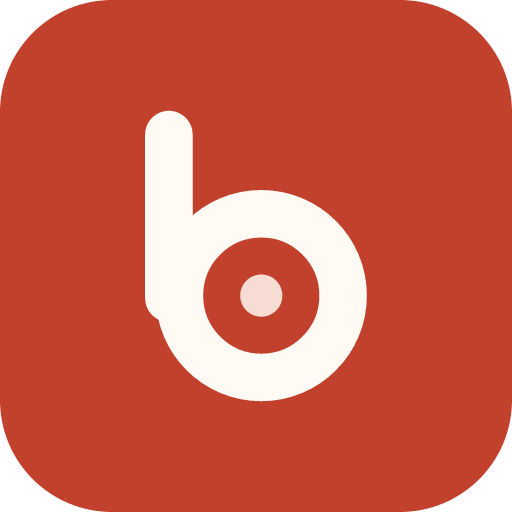
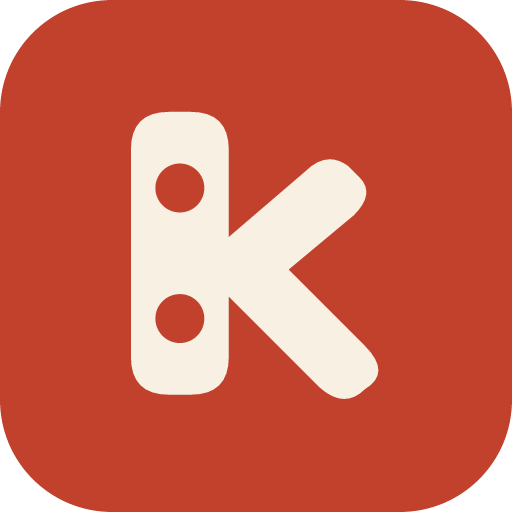
feat(brand): Punchline mark and punched-dot wordmark
Replace ring-spoon mark (read as Beats) with Punchline k: binder page
spine, two punched holes. Wordmark single weight ink, tomato punch-ring
i dots. Regen favicons, app/maskable icons, share images, PDF logo.

Changed region(s): [[0.25, 0.2188, 0.75, 0.7812]]

diff --git a/apps/web/src/components/pantry/brand-mark.tsx b/apps/web/src/components/pantry/brand-mark.tsx
@@ -4,21 +4,21 @@ type BrandMarkProps = Omit<SVGProps<SVGSVGElement>, "children"> & {
   size?: number;
   /** Accessible name. Omit when the mark is decorative. */
   title?: string;
-  /** Colour of the spoon dot. Defaults to tomato. The stroke uses currentColor. */
-  dotColor?: string;
 };
 
-/** The ring spoon: a binder ring and spoon handle forming a lowercase "b". */
-export function BrandMark({
-  size = 32,
-  title,
-  dotColor = "var(--mark-dot, #c2412d)",
-  ...props
-}: BrandMarkProps) {
+const MARK =
+  "M10 13Q10 6 17 6H21Q28 6 28 13V29L42 17Q46 13 50 16L52 18Q55 21 51 25L39 35L53 49Q58 54 53 57Q49 61 44 56L28 40V51Q28 58 21 58H17Q10 58 10 51ZM23.5 20a4.5 4.5 0 1 0 -9.0 0a4.5 4.5 0 1 0 9.0 0ZM23.5 44a4.5 4.5 0 1 0 -9.0 0a4.5 4.5 0 1 0 9.0 0Z";
+/** Pixel-snapped drawing so both punches stay open at 16px. */
+const MARK_16 =
+  "M2 3.25Q2 1.5 3.75 1.5H5.25Q7 1.5 7 3.25V7.25L10.75 4.25Q11.75 3.4 12.6 4.25L13 4.7Q13.8 5.5 12.8 6.4L9.8 8.8L13.4 12.4Q14.4 13.5 13.3 14.25Q12.4 15 11.3 13.9L7 10V12.75Q7 14.5 5.25 14.5H3.75Q2 14.5 2 12.75ZM5.5 5a1 1 0 1 0 -2 0a1 1 0 1 0 2 0ZM5.5 11a1 1 0 1 0 -2 0a1 1 0 1 0 2 0Z";
+
+/** Punchline: a k whose spine is a binder page with two punched holes. Fills with currentColor. */
+export function BrandMark({ size = 32, title, ...props }: BrandMarkProps) {
+  const small = size <= 20;
   return (
     // biome-ignore lint/a11y/noSvgWithoutTitle: titled when `title` is set, otherwise aria-hidden.
     <svg
-      viewBox="0 0 64 64"
+      viewBox={small ? "0 0 16 16" : "0 0 64 64"}
       width={size}
       height={size}
       role={title ? "img" : undefined}
@@ -27,25 +27,21 @@ export function BrandMark({
       {...props}
     >
       {title ? <title>{title}</title> : null}
-      <rect x="14" y="5" width="9" height="40" rx="4.5" fill="currentColor" />
-      <circle
-        cx="36"
-        cy="40"
-        r="15.5"
-        fill="none"
-        stroke="currentColor"
-        strokeWidth="9"
-      />
-      <circle cx="36" cy="40" r="4" fill={dotColor} />
+      <path fill="currentColor" fillRule="evenodd" d={small ? MARK_16 : MARK} />
     </svg>
   );
 }
 
-/** Lowercase wordmark: "kitchen" roman, "binder" italic. */
+/** Lowercase wordmark, single weight. The i dots are tomato binder punches. */
 export function Wordmark({ className }: { className?: string }) {
   return (
-    <span className={className ?? "brand-wordmark"}>
-      kitchen<i>binder</i>
+    <span
+      className={className ?? "brand-wordmark"}
+      role="img"
+      aria-label="kitchenbinder"
+    >
+      k<span className="brand-punch">ı</span>tchenb
+      <span className="brand-punch">ı</span>nder
     </span>
   );
 }

diff --git a/apps/web/src/styles/brand.css b/apps/web/src/styles/brand.css
@@ -93,11 +93,23 @@
   color: var(--tomato);
 }
 .brand-wordmark {
-  font: 800 24px / 1 var(--sans);
-  letter-spacing: -0.6px;
+  font: 850 24px / 1 var(--sans);
+  letter-spacing: -0.025em;
   color: var(--ink);
 }
-.brand-wordmark i {
-  font-weight: 700;
-  color: var(--tomato);
+/* Dotless ı topped with a tomato punch ring, sized in em to scale. */
+.brand-punch {
+  position: relative;
+}
+.brand-punch::after {
+  content: "";
+  position: absolute;
+  left: 50%;
+  top: 0.15em;
+  width: 0.2em;
+  height: 0.2em;
+  border: 0.052em solid var(--tomato);
+  border-radius: 50%;
+  box-sizing: border-box;
+  transform: translateX(-50%);
 }

diff --git a/apps/web/src/styles/landing.css b/apps/web/src/styles/landing.css
@@ -60,9 +60,9 @@ body .home-page .add-composer-section {
   margin-bottom: 22px;
   color: var(--ink);
 }
-.sample-sheet-brand > span {
-  font: 800 20px / 1 var(--sans);
-  letter-spacing: -0.5px;
+.sample-sheet-brand > .sample-sheet-wordmark {
+  font: 850 20px / 1 var(--sans);
+  letter-spacing: -0.025em;
 }
 .sample-sheet-brand small {
   margin-left: auto;
@@ -205,7 +205,7 @@ body .home-page .add-composer-section {
   .sample-sheet h2 {
     font-size: 26px;
   }
-  .sample-sheet-brand > span {
+  .sample-sheet-brand > .sample-sheet-wordmark {
     font-size: 18px;
   }
   .sample-sheet-brand small {

diff --git a/apps/web/src/components/home/recipe-sheet-preview.tsx b/apps/web/src/components/home/recipe-sheet-preview.tsx
@@ -1,3 +1,5 @@
+import { Wordmark } from "@/components/pantry";
+
 const ingredients = [
   "200 g pasta",
   "1 tin chickpeas, drained",
@@ -17,7 +19,7 @@ export function RecipeSheetPreview() {
       <article className="sample-sheet">
         <div className="sample-sheet-brand">
           <img src="/branding/icon-192.png" alt="" width={32} height={32} />
-          <span>kitchenbinder</span>
+          <Wordmark className="sample-sheet-wordmark" />
           <small>Example recipe</small>
         </div>
         <h2>Lemon &amp; chickpea pasta</h2>

diff --git a/apps/extension/src/entrypoints/popup/App.tsx b/apps/extension/src/entrypoints/popup/App.tsx
@@ -57,7 +57,10 @@ export function App() {
           width={40}
           height={40}
         />
-        <span className="brand-wordmark">kitchenbinder</span>
+        <span className="brand-wordmark" role="img" aria-label="kitchenbinder">
+          k<span className="brand-punch">ı</span>tchenb
+          <span className="brand-punch">ı</span>nder
+        </span>
       </p>
       {connection?.kind === "connected" ? (
         <>

diff --git a/apps/web/src/components/welcome.tsx b/apps/web/src/components/welcome.tsx
@@ -3,7 +3,7 @@ import type { CSSProperties, ReactNode } from "react";
 import { BrandMark, type PantryTone, RecipeCover, toneColor } from "./pantry";
 
 /**
- * Welcome illustration: oat blobs, the ring spoon and two floating recipe
+ * Welcome illustration: oat blobs, the Punchline mark and two floating recipe
  * cards. `tone` tints the mark (e.g. an invited household's colour).
  */
 export function WelcomeArt({

diff --git a/DESIGN.md b/DESIGN.md
@@ -53,7 +53,7 @@ Meaning first: **tomato = do this**, **olive = done / have it**, **butter = rati
 | Label | 13 · 600 |
 | Eyebrow / overline | 11 · 700 · caps · 0.12–0.14em |
 
-Accent: one italic tomato phrase in a headline, 700 italic ("What are we *cooking?*"). The wordmark sets "kitchen" roman, "binder" italic tomato.
+Accent: one italic tomato phrase in a headline, 700 italic ("What are we *cooking?*"). The wordmark is lowercase "kitchenbinder", one weight (850) in ink; both i dots are tomato punch rings (`.brand-punch`). The mark (Punchline) is a k whose spine is a binder page with two punched holes (`BrandMark`, `public/branding/mark.svg`).
 
 ## Shape, elevation, motion, space
 
